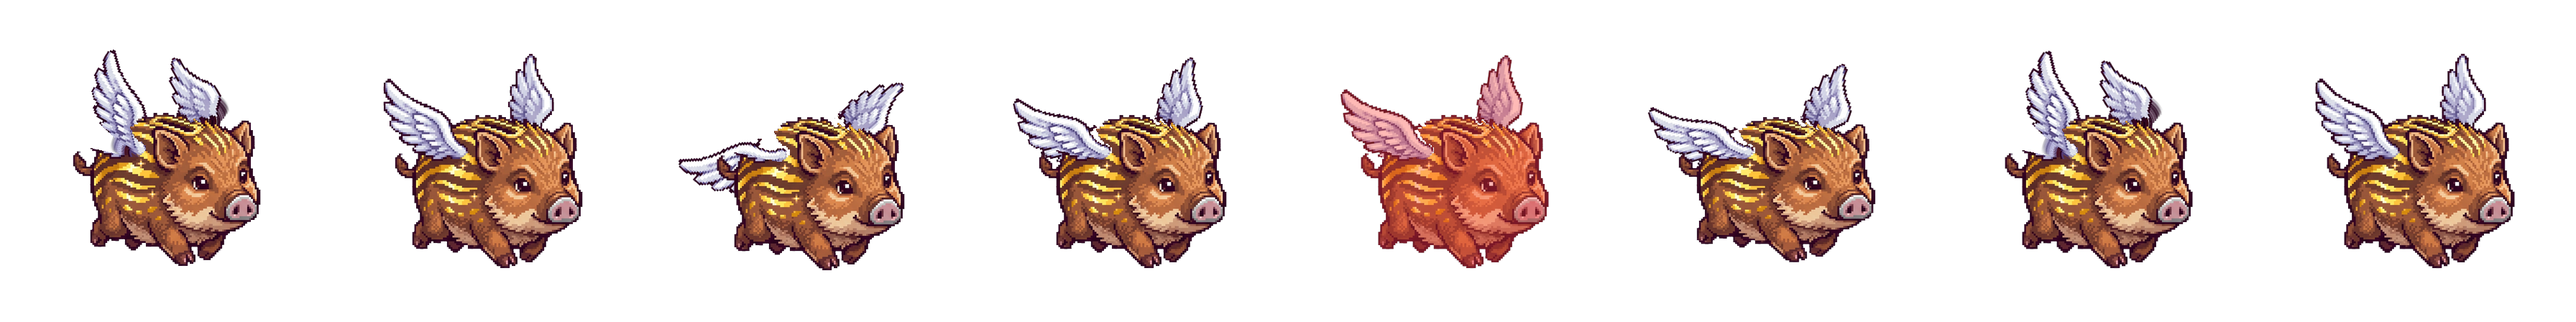
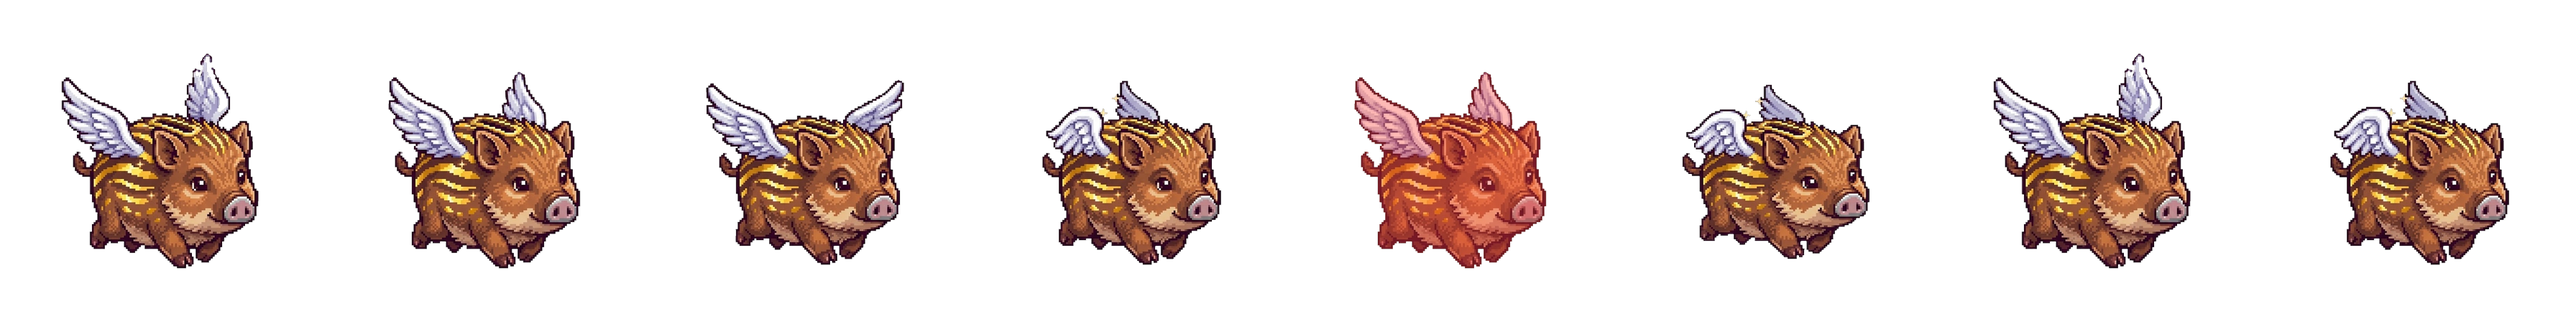
When Pigs Fly: the piglet's drawn wingbeat, synced from app 5711395

Changed region(s): [[0.0, 0.1562, 0.75, 0.8438], [0.75, 0.1562, 0.875, 0.8438], [0.875, 0.1875, 1.0, 0.8438]]

diff --git a/arcade/v2/app/lib/arcade/passage/boar.dart b/arcade/v2/app/lib/arcade/passage/boar.dart
@@ -21,8 +21,11 @@
 /// `tool/art/import_boars.py`, which mirrors it to face right, drops the
 /// detached sparkles, cuts the wings out and turns them about their
 /// shoulders to build the eight frames: a real wingbeat, a red-tinted hurt
-/// frame, a swept dash frame and a braking landing frame. The old
-/// generated placeholders came from `tool/art/boar_sprites.py`.
+/// frame, a swept dash frame and a braking landing frame. The piglet's
+/// wingbeat is drawn instead (2026-09-28): four frames by the owner, split
+/// out of their sheet by `tool/art/split_frames.py` and used as drawn, the
+/// other frames borrowing from them. The old generated placeholders came
+/// from `tool/art/boar_sprites.py`.
 library;
 
 import 'package:flutter/widgets.dart';
@@ -114,7 +117,8 @@ class BoarSpec {
       sizeInRadii: 5.83,
       anchorU: 0.54,
       anchorV: 0.586,
-      footV: 0.833,
+      // The drawn wingbeat's folded frame, which is also the standing one.
+      footV: 0.824,
       name: 'Piglet',
       bodyHalfLength: 0.35,
     ),

diff --git a/arcade/v2/app/tool/art/split_frames.py b/arcade/v2/app/tool/art/split_frames.py
@@ -1,0 +1,155 @@
+"""Splits a 2x2 sheet of hand-drawn animation frames into registered,
+transparent frames, ready for import_boars.py.
+
+    python tool/art/split_frames.py sheet.jpg tool/art/source/boar_piglet_cycle
+
+writes boar_piglet_cycle_1.png .. _4.png (reading order: top-left, top-right,
+bottom-left, bottom-right).
+
+The owner's sheets are drawn on white, with a "FRAME n" label above each
+frame, and saved as JPEG. For each frame this:
+
+  1. cuts the cell out of the 2x2 grid (split at the blank gutters);
+  2. erases the label: its letters are neutral grey-black, where the art's
+     darkest outlines are tinted (purple-brown), so it goes by colour, and
+     only in the band above the art;
+  3. makes the white background transparent by flood-filling from the cell's
+     edges through near-white (so white inside the art, such as the wings,
+     is untouched), then trims the light JPEG fringe off the outline;
+  4. registers the frames on the body: the part below the wings is the same
+     drawing in every frame, so each frame is shifted to line its body up
+     with the first. Without it the whole pig jitters as the frames cycle.
+
+All four come out on one canvas size, so the importer can crop them alike.
+"""
+import os
+import sys
+from collections import deque
+
+import numpy as np
+from PIL import Image
+
+
+def gutters(profile, min_len):
+    """Runs of (nearly) empty rows or columns, as (start, end)."""
+    out, start = [], None
+    for i, v in enumerate(profile):
+        if v <= 2 and start is None:
+            start = i
+        if v > 2 and start is not None:
+            if i - start >= min_len:
+                out.append((start, i))
+            start = None
+    if start is not None and len(profile) - start >= min_len:
+        out.append((start, len(profile)))
+    return out
+
+
+def split_points(profile, n_cells):
+    """Where to cut: the middle of the widest interior gutters."""
+    gs = [g for g in gutters(profile, 6) if g[0] > 0 and g[1] < len(profile)]
+    gs.sort(key=lambda g: g[1] - g[0], reverse=True)
+    cuts = sorted((a + b) // 2 for a, b in gs[: n_cells - 1])
+    return [0] + cuts + [len(profile)]
+
+
+def erase_label(a, band=70):
+    """Erases the label above the art.
+
+    Its letters are neutral grey-black (the art's darkest outlines are
+    tinted), so their dark cores find the label's box; within that box only,
+    neutral pixels up to light grey are painted white. Keeping to the box
+    matters: the first version cleared every neutral pixel in the band, and
+    took the pale grey tip off a wing that reaches up beside the label."""
+    top = a[:band].astype(int)
+    mx, mn = top.max(axis=2), top.min(axis=2)
+    neutral = (mx - mn) < 22
+    cores = neutral & (mx < 130)
+    ys, xs = np.nonzero(cores)
+    if len(xs) == 0:
+        return a
+    y0, y1 = max(0, ys.min() - 4), min(band, ys.max() + 5)
+    x0, x1 = max(0, xs.min() - 4), min(top.shape[1], xs.max() + 5)
+    box = np.zeros_like(neutral)
+    box[y0:y1, x0:x1] = True
+    top[box & neutral & (mx < 215)] = 255
+    a[:band] = top.astype(np.uint8)
+    return a
+
+
+def knock_out(a):
+    """RGBA with the background flood-filled out from the edges."""
+    h, w, _ = a.shape
+    ai = a.astype(int)
+    bgish = (ai.min(axis=2) > 226) & ((ai.max(axis=2) - ai.min(axis=2)) < 24)
+    bg = np.zeros((h, w), bool)
+    q = deque()
+    for x in range(w):
+        for y in (0, h - 1):
+            if bgish[y, x] and not bg[y, x]:
+                bg[y, x] = True
+                q.append((y, x))
+    for y in range(h):
+        for x in (0, w - 1):
+            if bgish[y, x] and not bg[y, x]:
+                bg[y, x] = True
+                q.append((y, x))
+    while q:
+        y, x = q.popleft()
+        for dy, dx in ((1, 0), (-1, 0), (0, 1), (0, -1)):
+            ny, nx = y + dy, x + dx
+            if 0 <= ny < h and 0 <= nx < w and bgish[ny, nx] and not bg[ny, nx]:
+                bg[ny, nx] = True
+                q.append((ny, nx))
+    # The JPEG fringe: light pixels touching the background, twice over.
+    for _ in range(2):
+        edge = np.zeros_like(bg)
+        edge[1:] |= bg[:-1]
+        edge[:-1] |= bg[1:]
+        edge[:, 1:] |= bg[:, :-1]
+        edge[:, :-1] |= bg[:, 1:]
+        fringe = edge & ~bg & (ai.min(axis=2) > 185)
+        bg |= fringe
+    out = np.dstack([a, np.where(bg, 0, 255).astype(np.uint8)])
+    return out
+
+
+def body_anchor(rgba, below):
+    """Where the body is: the centroid of the opaque pixels below row
+    `below` (under the wings), and the lowest opaque row."""
+    m = rgba[:, :, 3] > 0
+    m[:below] = False
+    ys, xs = np.nonzero(m)
+    return xs.mean(), ys.mean(), ys.max()
+
+
+def main():
+    src, prefix = sys.argv[1], sys.argv[2]
+    img = np.array(Image.open(src).convert("RGB"))
+    nonwhite = img.min(axis=2) < 235
+    xs = split_points(nonwhite.sum(axis=0), 2)
+    ys = split_points(nonwhite.sum(axis=1), 2)
+    cells = []
+    for r in range(2):
+        for c in range(2):
+            cell = img[ys[r]:ys[r + 1], xs[c]:xs[c + 1]].copy()
+            cells.append(knock_out(erase_label(cell)))
+
+    # Register on the body. The wings never reach below ~45% of the cell.
+    below = int(min(c.shape[0] for c in cells) * 0.45)
+    anchors = [body_anchor(c, below) for c in cells]
+    ax0, ay0, _ = anchors[0]
+    shifts = [(round(ax0 - ax), round(ay0 - ay)) for ax, ay, _ in anchors]
+    ch = max(c.shape[0] for c in cells) + 40
+    cw = max(c.shape[1] for c in cells) + 40
+    os.makedirs(os.path.dirname(prefix) or ".", exist_ok=True)
+    for i, (cell, (dx, dy)) in enumerate(zip(cells, shifts), 1):
+        canvas = Image.new("RGBA", (cw, ch), (0, 0, 0, 0))
+        canvas.alpha_composite(Image.fromarray(cell, "RGBA"), (20 + dx, 20 + dy))
+        path = f"{prefix}_{i}.png"
+        canvas.save(path)
+        print(f"frame {i}: shifted {dx:+d},{dy:+d} -> {path}")
+
+
+if __name__ == "__main__":
+    main()

diff --git a/arcade/v2/app/tool/art/import_boars.py b/arcade/v2/app/tool/art/import_boars.py
@@ -24,6 +24,12 @@ this:
      frame, and a landing frame braking with the wings raised;
   6. rebuilds the home-card image from the razorback.
 
+A stage can instead have a drawn wingbeat: tool/art/source/boar_{stage}_cycle_1
+.. _4.png, the owner's frames split out of a sheet by split_frames.py (the
+piglet's, 2026-09-28). Then those four are the wing cycle as drawn, with no
+rig, and the other frames are made from them (see drawn_sheet). The single
+pose given on the command line is not used for that stage.
+
 Then run tool/art/check_sheets.py for the hoof line, and set the placement
 numbers in BoarSpec.
 """
@@ -214,6 +220,67 @@ def to_frame(img):
     return sq.resize((FRAME, FRAME), Image.LANCZOS)
 
 
+def to_frames(imgs):
+    """Several drawings of one boar, cropped alike to the box that holds all
+    of them and centred as to_frame does, so a body that does not move
+    between drawings does not move between frames either."""
+    boxes = [im.getchannel("A").getbbox() for im in imgs]
+    box = (min(b[0] for b in boxes), min(b[1] for b in boxes), max(b[2] for b in boxes), max(b[3] for b in boxes))
+    out = []
+    for im in imgs:
+        im = im.crop(box)
+        side = int(max(im.size) * PAD)
+        sq = Image.new("RGBA", (side, side), (0, 0, 0, 0))
+        sq.paste(im, ((side - im.width) // 2, (side - im.height) // 2), im)
+        out.append(sq.resize((FRAME, FRAME), Image.LANCZOS))
+    return out
+
+
+def drawn_cycle(stage, facing):
+    """The owner's drawn wingbeat for [stage], mirrored and de-sparkled, or
+    None if the stage has none."""
+    paths = [os.path.join(HERE, "source", f"boar_{stage}_cycle_{i}.png") for i in range(1, 5)]
+    if not all(os.path.exists(p) for p in paths):
+        return None
+    imgs = []
+    for p in paths:
+        im = Image.open(p).convert("RGBA")
+        if facing == "left":
+            im = im.transpose(Image.FLIP_LEFT_RIGHT)
+        imgs.append(main_component(im)[0])
+    return to_frames(imgs)
+
+
+def drawn_sheet(cycle):
+    """The sheet from a drawn wingbeat. The drawings go up, level, down,
+    folding in, the order of the cycle frames; the rest borrow from them:
+    hurt is the level frame tinted red, dash the folded one stretched along
+    the line of flight, landing the wings-up one (braking), and standing the
+    folded one."""
+    up, mid, down, fold = cycle
+    frames = [up, mid, down, fold, hurt(mid), dash(fold), up, fold]
+    out = Image.new("RGBA", (FRAME * FRAMES, FRAME), (0, 0, 0, 0))
+    for i, f in enumerate(frames):
+        out.paste(f, (i * FRAME, 0), f)
+    return out
+
+
+def hurt(frame):
+    """Tinted toward red, alpha untouched."""
+    r, g, b, a = frame.split()
+    rgb = Image.blend(Image.merge("RGB", (r, g, b)), Image.new("RGB", frame.size, (255, 60, 50)), 0.35)
+    return Image.merge("RGBA", (*rgb.split(), a))
+
+
+def dash(frame):
+    """Stretched along the line of flight."""
+    w = int(FRAME * 1.05)
+    st = frame.resize((w, int(FRAME * 0.95)), Image.LANCZOS)
+    f = Image.new("RGBA", frame.size, (0, 0, 0, 0))
+    f.paste(st, ((FRAME - w) // 2, int(FRAME * 0.025)), st)
+    return f
+
+
 def sheet(frame, stage):
     body, wings = split_wings(frame, stage)
     frames = []
@@ -226,18 +293,9 @@ def sheet(frame, stage):
             f = Image.new("RGBA", frame.size, (0, 0, 0, 0))
             f.paste(frame, (0, dy), frame)
         elif i == 4:
-            # Hurt: tinted toward red, alpha untouched.
-            r, g, b, a = frame.split()
-            rgb = Image.merge("RGB", (r, g, b))
-            red = Image.new("RGB", frame.size, (255, 60, 50))
-            rgb = Image.blend(rgb, red, 0.35)
-            f = Image.merge("RGBA", (*rgb.split(), a))
+            f = hurt(frame)
         elif i == 5:
-            # Dash: stretched along the line of flight.
-            w = int(FRAME * 1.05)
-            st = frame.resize((w, int(FRAME * 0.95)), Image.LANCZOS)
-            f = Image.new("RGBA", frame.size, (0, 0, 0, 0))
-            f.paste(st, ((FRAME - w) // 2, int(FRAME * 0.025)), st)
+            f = dash(frame)
         frames.append(f)
     out = Image.new("RGBA", (FRAME * FRAMES, FRAME), (0, 0, 0, 0))
     for i, f in enumerate(frames):
@@ -253,6 +311,12 @@ def main():
     args = ap.parse_args()
     frames = {}
     for stage, src in zip(STAGES, args.sources):
+        cycle = drawn_cycle(stage, args.facing)
+        if cycle:
+            frames[stage] = cycle[0]
+            drawn_sheet(cycle).save(os.path.join(OUT, f"boar_{stage}.png"))
+            print(f"{stage}: drawn wingbeat (source/boar_{stage}_cycle_1..4.png) -> boar_{stage}.png")
+            continue
         img = Image.open(src).convert("RGBA")
         if args.facing == "left":
             img = img.transpose(Image.FLIP_LEFT_RIGHT)

diff --git a/arcade/TEN-GAMES.md b/arcade/TEN-GAMES.md
@@ -547,6 +547,42 @@ wide. It now wraps.
 - **One fix:** the confirmation message sat over the Fly button for four
   seconds. It is now shorter and lifted clear.
 
+### The piglet's drawn wingbeat — 2026-09-28
+
+The owner drew the piglet's wingbeat as four frames on one 2×2 sheet: white
+background, a "FRAME n" label over each, saved as JPEG. It replaces the
+rigged wingbeat, where the wings were cut out and turned about the shoulder,
+for the piglet only.
+
+- **`tool/art/split_frames.py`** splits the sheet in four steps:
+  1. It cuts the cells at the blank gutters.
+  2. It erases each label. The letters are neutral grey and the art's
+     outlines are tinted, so the colour difference finds the letters.
+     Erasing is kept to the label's own box, because the first version also
+     took the pale tip off frame 1's far wing, which reaches up beside its
+     label.
+  3. It flood-fills the white out from the edges, then trims the JPEG
+     fringe.
+  4. It registers each frame on the body so the pig does not jitter as the
+     frames cycle.
+
+  The sheet and the four split frames are kept in `tool/art/source/`.
+- **`import_boars.py`** uses a stage's drawn frames whenever
+  `boar_{stage}_cycle_1..4.png` exist:
+  - All four frames are cropped to one shared box, so the body stays where
+    it was drawn.
+  - The drawings, in order, are the cycle: up, level, down, folding in.
+  - Hurt is the level frame tinted red.
+  - Dash is the folded frame stretched.
+  - Landing is the wings-up frame.
+  - Standing is the folded frame.
+- **BoarSpec:** the body landed within 3px of the old piglet art, so the size
+  and anchors stand. The foot line moved from 0.833 to 0.824, because
+  standing is now the folded drawing.
+- **Verified on the Pixel:** a DEV flight as the piglet was recorded and
+  stepped through. It cycles the four drawings with the body steady. The
+  juvenile and razorback sheets came out unchanged.
+
 ### Picking the boar's stage in DEV, both ways — 2026-09-28
 
 The owner wanted to start as the piglet. DEV could only step the stage
